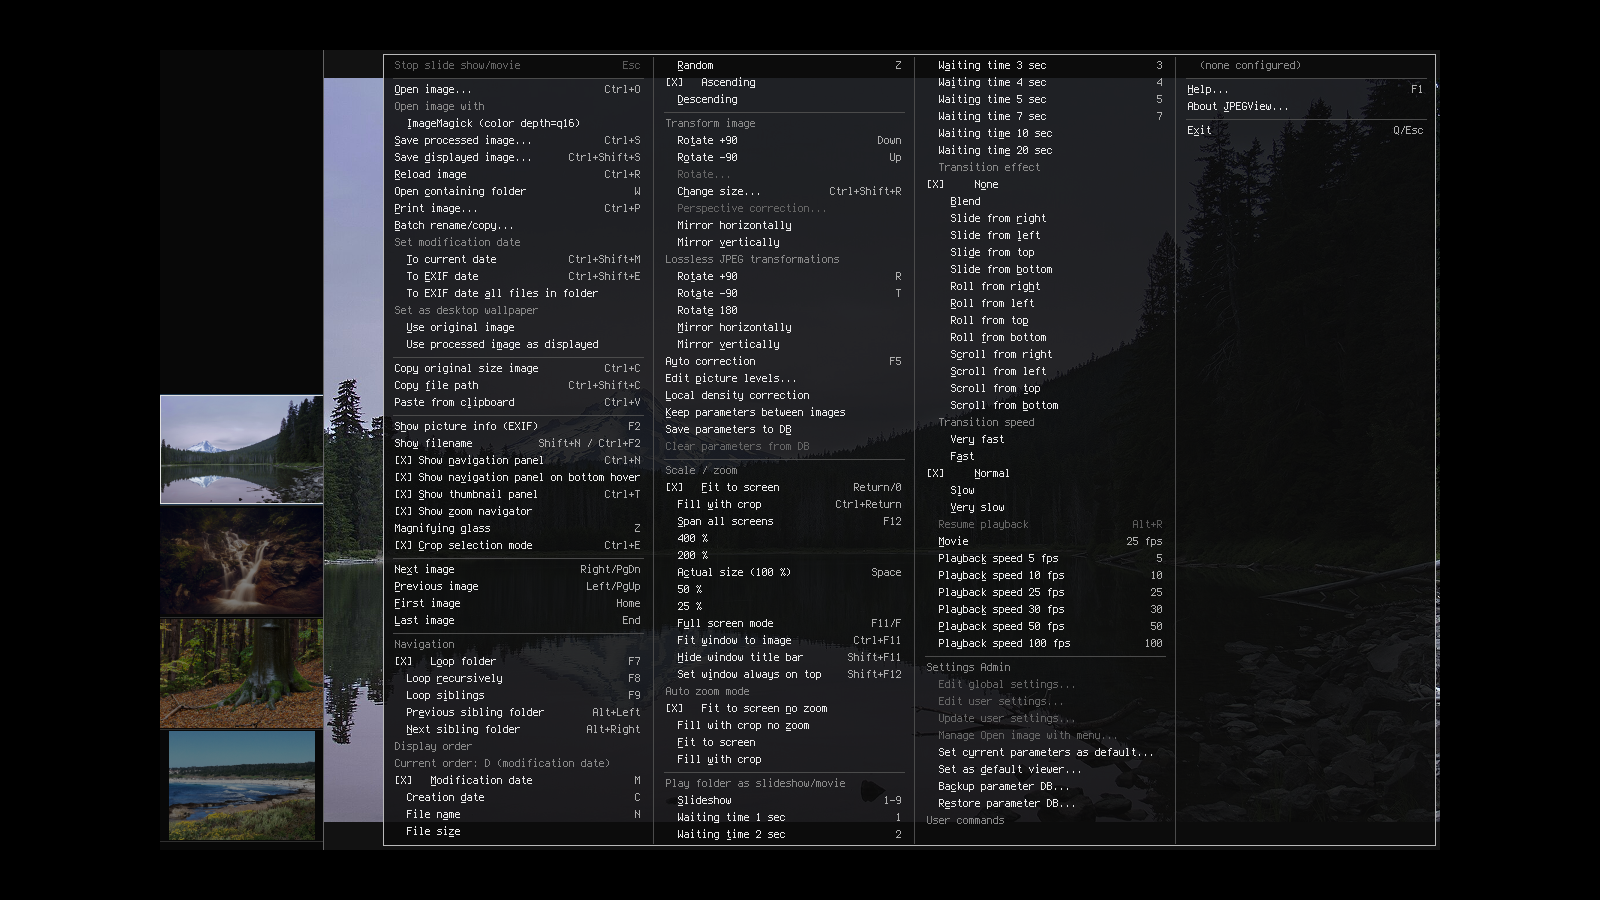
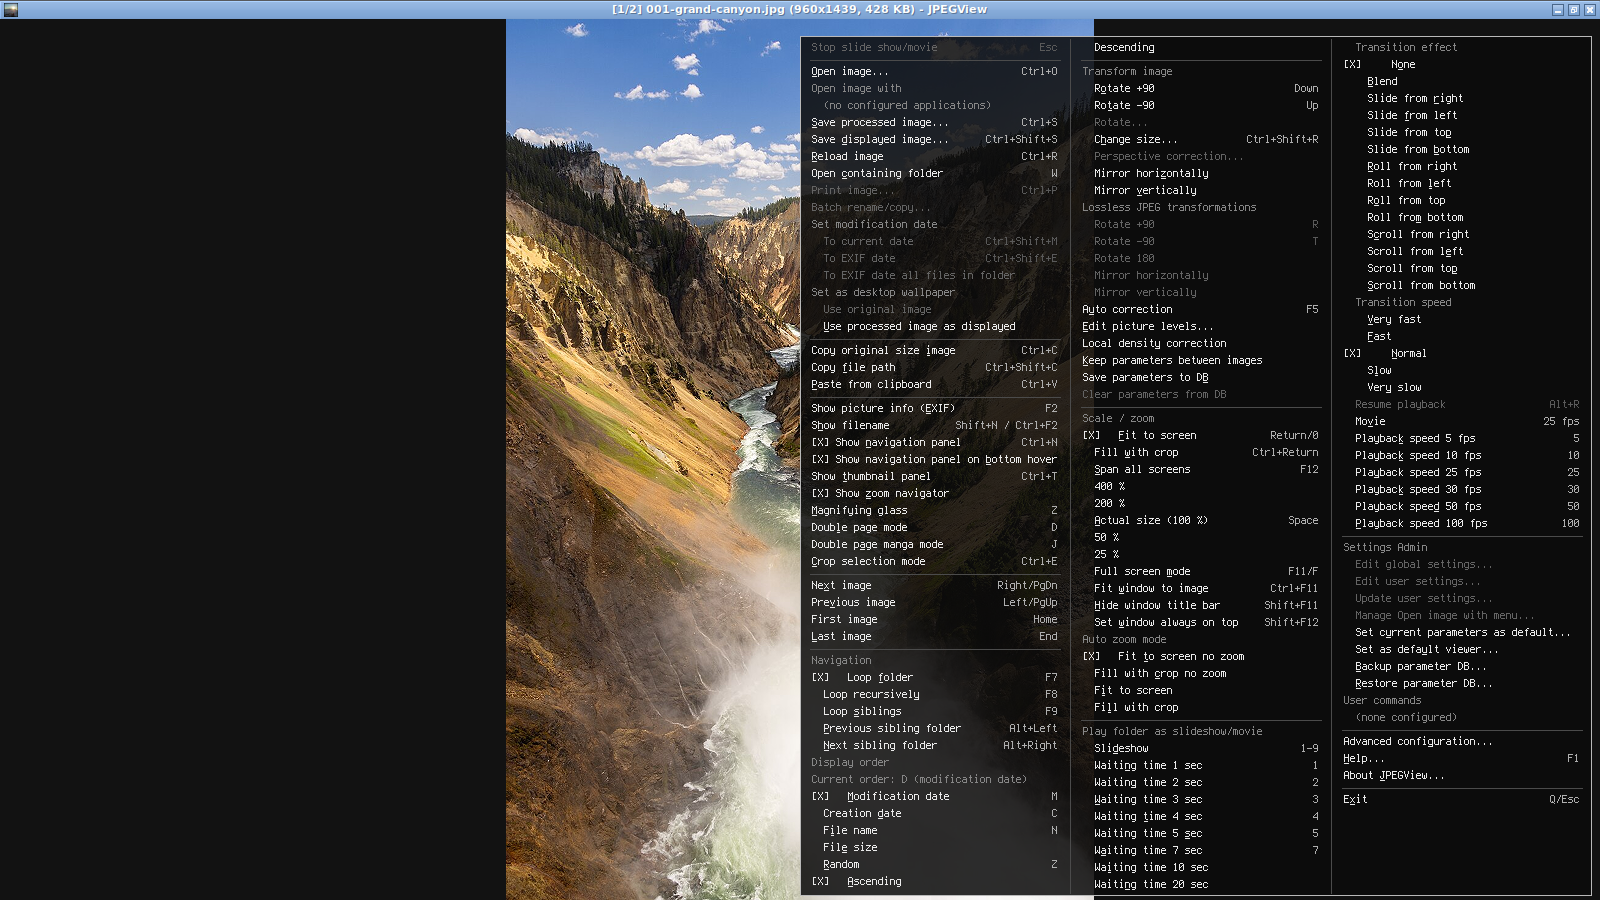
docs(screenshots): Showcase newer Linux viewer features
Add portrait-spread captures for normal and manga page order, archive browsing, deletion confirmation, and the Recents removal controls. Refresh the Browse and expanded-menu screenshots to show current preview metadata and Advanced configuration placement, and add the Behavior settings tab.

The added Yellowstone portrait photos are credited to NPS / Jacob W. Frank and linked to their public-domain Wikimedia Commons records. No runtime code changed.

diff --git a/linux/README.md b/linux/README.md
@@ -968,13 +968,34 @@ on a marked image:
 
 <p><img src="screenshots/main-window-panels.png" width="720" alt="JPEGView Linux main window with thumbnail and navigation panels, including a marked-image outline"></p>
 
-The resizable Browse dialog with folder counts, a selected image, and its live preview:
+The resizable Browse dialog with folder counts, file sizes, and a live preview whose footer shows
+the selected image's dimensions and size:
 
-<p><img src="screenshots/open-dialog-preview.png" width="720" alt="JPEGView Linux Browse dialog with a selected-image preview and adjustable preview pane"></p>
+<p><img src="screenshots/open-dialog-preview.png" width="720" alt="JPEGView Linux Browse dialog showing folder counts, image file sizes, and preview dimensions and size"></p>
 
-The Recents tab keeps one image per folder and shows the focused image in the same preview pane:
+The Recents tab keeps one image per folder, shows its preview, and offers both the Remove button and
+Delete/Ctrl+Z keyboard controls:
 
-<p><img src="screenshots/recent-files-preview.png" width="720" alt="JPEGView Linux Recents tab showing folder paths, filenames, and the focused image preview"></p>
+<p><img src="screenshots/recent-files-preview.png" width="720" alt="JPEGView Linux Recents tab with one image per folder, a preview, Remove button, and Delete and undo hints"></p>
+
+Supported archives behave like folders in Browse. This CBZ example shows gold archive-member rows,
+member sizes, and a preview without extracting the image to disk:
+
+<p><img src="screenshots/archive-browsing.png" width="720" alt="JPEGView Linux open dialog browsing images inside a CBZ archive with gold member rows and a preview"></p>
+
+Delete opens a confirmation with a cached preview of the selected image before moving it to the
+desktop trash; Escape cancels the operation:
+
+<p><img src="screenshots/deletion-confirmation-preview.png" width="720" alt="JPEGView Linux move-to-trash confirmation showing a preview of the selected lake photo"></p>
+
+With two portrait images after the standalone cover, double-page mode displays both at once and
+highlights both files in the thumbnail strip:
+
+<p><a href="screenshots/double-page-mode.png"><img src="screenshots/double-page-mode.png" width="720" alt="JPEGView Linux double-page mode displaying two portrait Yellowstone images side by side"></a></p>
+
+Double-page manga mode uses the same pair in reverse left/right order:
+
+<p><a href="screenshots/double-page-manga-mode.png"><img src="screenshots/double-page-manga-mode.png" width="720" alt="JPEGView Linux double-page manga mode showing the same portrait pages in reversed order"></a></p>
 
 Crop selection mode provides a movable, resizable source-area selection and a crop-action menu:
 
@@ -997,10 +1018,11 @@ The compact context menu exposes the newer viewing controls and underlined keybo
 
 <p><img src="screenshots/context-menu-mnemonics.png" width="720" alt="JPEGView Linux context menu with crop, magnifying glass, picture levels, and mnemonic hints"></p>
 
-Choosing **Show Advanced Options** expands the full context menu into columns. It includes sibling-
-folder navigation with Alt+Left/Right; click the image to view the full-resolution capture:
+Choosing **Show Advanced Options** (or Shift+right-click) expands the full context menu into columns.
+It includes both page modes, sibling-folder navigation with Alt+Left/Right, and the Advanced
+configuration entry immediately before Help; click the image to view the full-resolution capture:
 
-<p><a href="screenshots/context-menu-advanced.png"><img src="screenshots/context-menu-advanced.png" width="720" alt="JPEGView Linux full advanced context menu with sibling-folder navigation and keyboard shortcuts"></a></p>
+<p><a href="screenshots/context-menu-advanced.png"><img src="screenshots/context-menu-advanced.png" width="720" alt="JPEGView Linux full context menu showing page modes, sibling-folder navigation, and Advanced configuration before Help"></a></p>
 
 The **Advanced configuration** window groups settings into seven tabs. This Image defaults view
 shows the controls for default picture adjustments and unsharp masking; edits stay staged until
@@ -1008,7 +1030,16 @@ Apply. Click the image to view it at full resolution:
 
 <p><a href="screenshots/advanced-configuration.png"><img src="screenshots/advanced-configuration.png" width="720" alt="JPEGView Linux Advanced configuration window showing its seven tabs and image-default adjustment controls"></a></p>
 
-The sample photos shown are CC0 images from Wikimedia Commons: [Lake Mountain Landscape](https://commons.wikimedia.org/wiki/File:Lake_Mountain_Landscape.jpg),
+The Behavior tab contains settings for manga left/right inversion, Spacebar navigation, and folder
+wrap; these edits also remain staged until Apply:
+
+<p><a href="screenshots/advanced-configuration-behavior.png"><img src="screenshots/advanced-configuration-behavior.png" width="720" alt="JPEGView Linux Advanced configuration Behavior tab with manga direction, Spacebar navigation, and folder-wrap settings"></a></p>
+
+The lake, waterfall, autumn, and beach photos shown are CC0 images from Wikimedia Commons:
+[Lake Mountain Landscape](https://commons.wikimedia.org/wiki/File:Lake_Mountain_Landscape.jpg),
 [Waterfall in forest](https://commons.wikimedia.org/wiki/File:Waterfall_in_forest.jpg),
 [Autumn Forest Wet Bark](https://commons.wikimedia.org/wiki/File:Autumn_Forest_Wet_Bark.jpg), and
-[Beach Scene](https://commons.wikimedia.org/wiki/File:Beach_Scene.jpg).
+[Beach Scene](https://commons.wikimedia.org/wiki/File:Beach_Scene.jpg). The portrait Yellowstone
+photos used for the double-page and archive examples are public-domain U.S. National Park Service
+works by NPS / Jacob W. Frank: [Grand Canyon of the Yellowstone](https://commons.wikimedia.org/wiki/File:Grand_Canyon_of_the_Yellowstone_from_Brink_of_the_Lower_Falls_viewing_area_%28portrait%29_%2853041957249%29.jpg)
+and [Fiery sunset over Bunsen Peak](https://commons.wikimedia.org/wiki/File:Fiery_sunset_over_Bunsen_Peak_portrait_%2834046709664%29.jpg).
